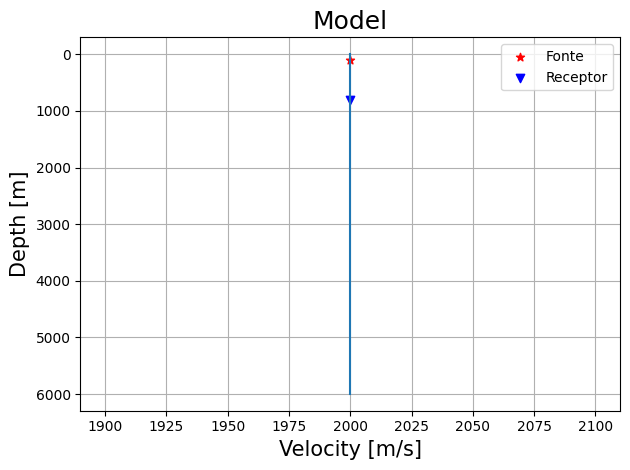
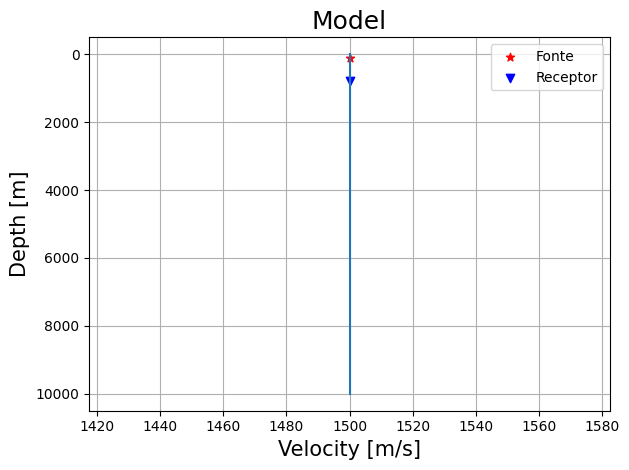
dispersão numérica  e estabilidade

diff --git a/seismic_training/modeling/scalar.py b/seismic_training/modeling/scalar.py
@@ -16,19 +16,23 @@ class Wavefield_1D():
 
         # TODO: read parameters from a file
         CFL_max = 0.8
-        self.nt = 10001
-        self.fmax = 20.0
-        self.velocities = [2000] 
-        self.dz=6
+        self.nt = 1001
+        self.dz=10
+        self.velocities = [1500] 
+        self.fmax = (self.velocities[0]/(10*self.dz))
+        CFL_max=0.8
+      
+        
+        #self.dt=0.001
         
         for i in  self.velocities:
             self.dt = CFL_max * self.dz / i
-        print(self.dt)
+        
         
         
         
        
-        self.nz=1000
+        self.nz=1001
         
         self.tempo=np.arange(self.nt)*self.dt
         self.depth=np.arange(self.nz)*self.dz
@@ -155,6 +159,9 @@ class Wavefield_1D():
         
 
     def set_wavelet(self):
+        
+     
+       
     
         t0 = 2.0*np.pi/self.fmax
         fc = self.fmax/(3.0*np.sqrt(np.pi))
@@ -162,14 +169,15 @@ class Wavefield_1D():
 
         arg = np.pi*(np.pi*fc*td)**2.0
 
-        self.wavelet = (1.0 - 2.0*arg)*np.exp(-arg)
+        self.wavelet=(1.0 - 2.0*arg)*np.exp(-arg)
 
     def plot_wavelet(self):
-       
+        
         t = np.arange(self.nt)*self.dt
 
         fig, ax = plt.subplots(figsize = (10, 5), clear = True)
-
+        
+          
         ax.plot(t, self.wavelet)
         ax.set_title("Wavelet", fontsize = 18)
         ax.set_xlabel("Time [s]", fontsize = 15)

diff --git a/linear regression/function.py b/linear regression/function.py
@@ -89,7 +89,8 @@ def plot_imshow(mat,z,v,a0_ind,a1_ind):
         ax.imshow(mat,extent=[1500,4500,250,750],aspect='auto')
       
         
-        #ax.scatter(b[a0_ind, a1_ind],a[a0_ind,a1_ind],color='red')
+        ax.scatter(v[a0_ind, a1_ind],z[a0_ind,a1_ind],color='red')
+        ax.scatter(3000,500)
         
         
         fig.tight_layout()

diff --git a/linear regression/main.py b/linear regression/main.py
@@ -5,8 +5,8 @@ import numpy as np
 import matplotlib.pyplot as plt
 def simulation ():
     model = LinearRegression()
-    model.plot_reta()
-    model.plot_ruido()
+    #model.plot_reta()
+    #model.plot_ruido()
     #man= LinearRegressionIMSHOW()
     #man.solution_space()
     

diff --git a/seismic_training/simulation.py b/seismic_training/simulation.py
@@ -16,8 +16,9 @@ def simulation():
   
 
     myWave[id].set_model()
+    
     myWave[id].set_wavelet()
-   
+    myWave[id].plot_wavelet()
     myWave[id].wave_prog()
     
     myWave[id].grafico_animação()
